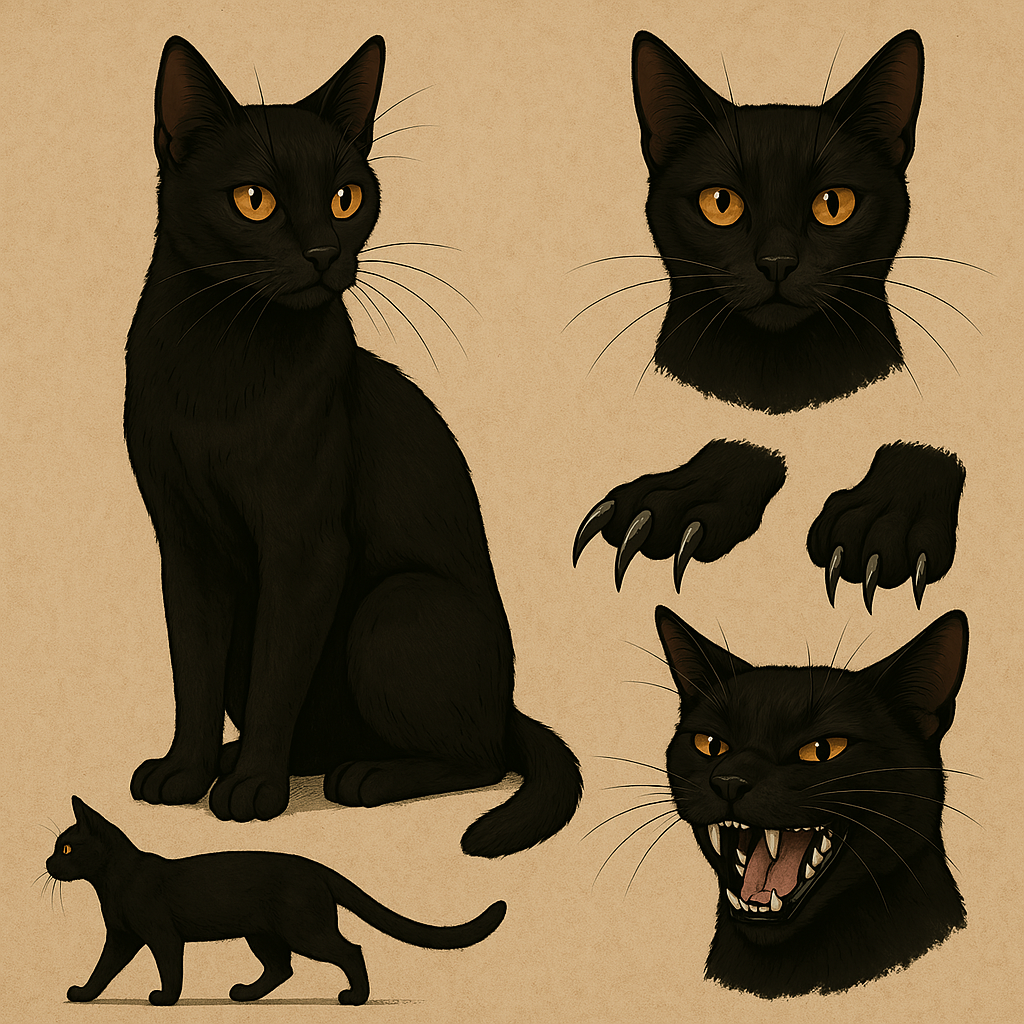
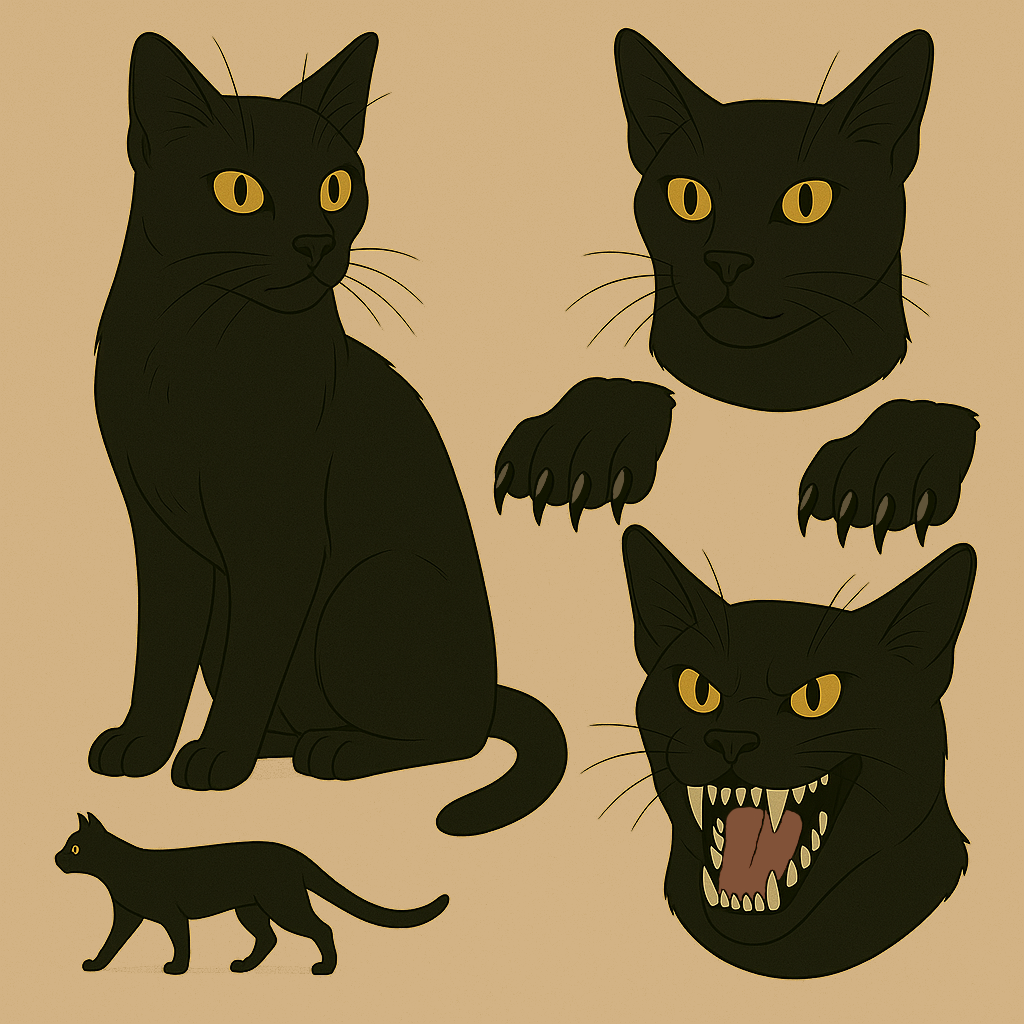
Updated Max character profile

Changed region(s): [[0.0312, 0.0312, 0.9688, 1.0], [0.3438, 0.5312, 0.375, 0.5938]]

diff --git a/max/characters.html b/max/characters.html
@@ -30,7 +30,7 @@
     <section id="max">
       <h2>Max</h2>
       <div class="character-profile">
-        <img src="images/max-concept-art.jpg" alt="Max Concept Art" class="profile-image" />
+        <img src="images/max-concept-art.png" alt="Max Concept Art" class="profile-image" />
         <div class="character-details">
           <h3>Character Sheet</h3>
           <p><strong>Role:</strong> Demon cat exiled to Earth</p>
